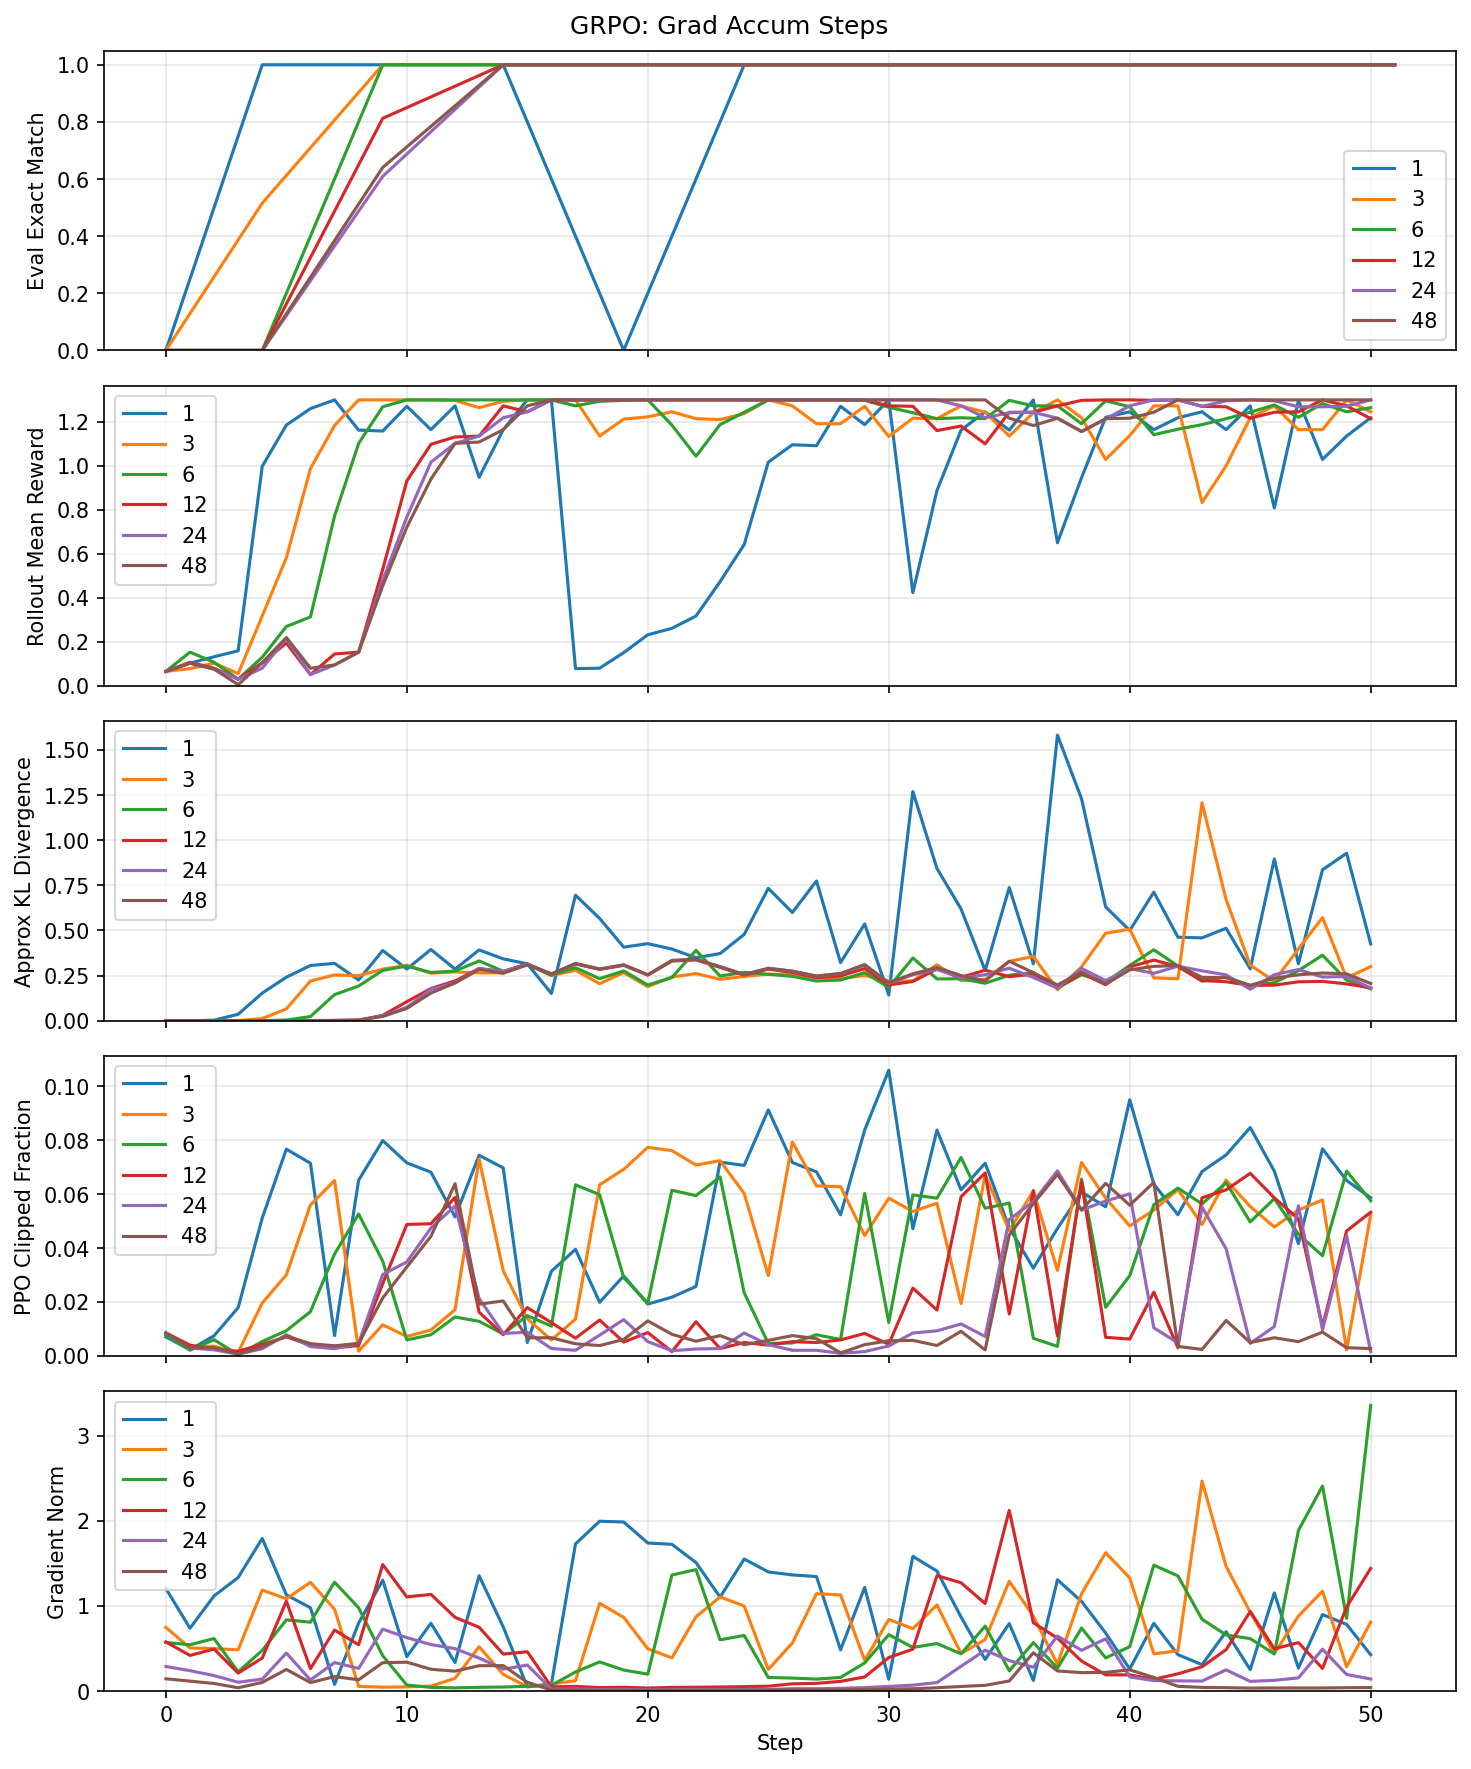
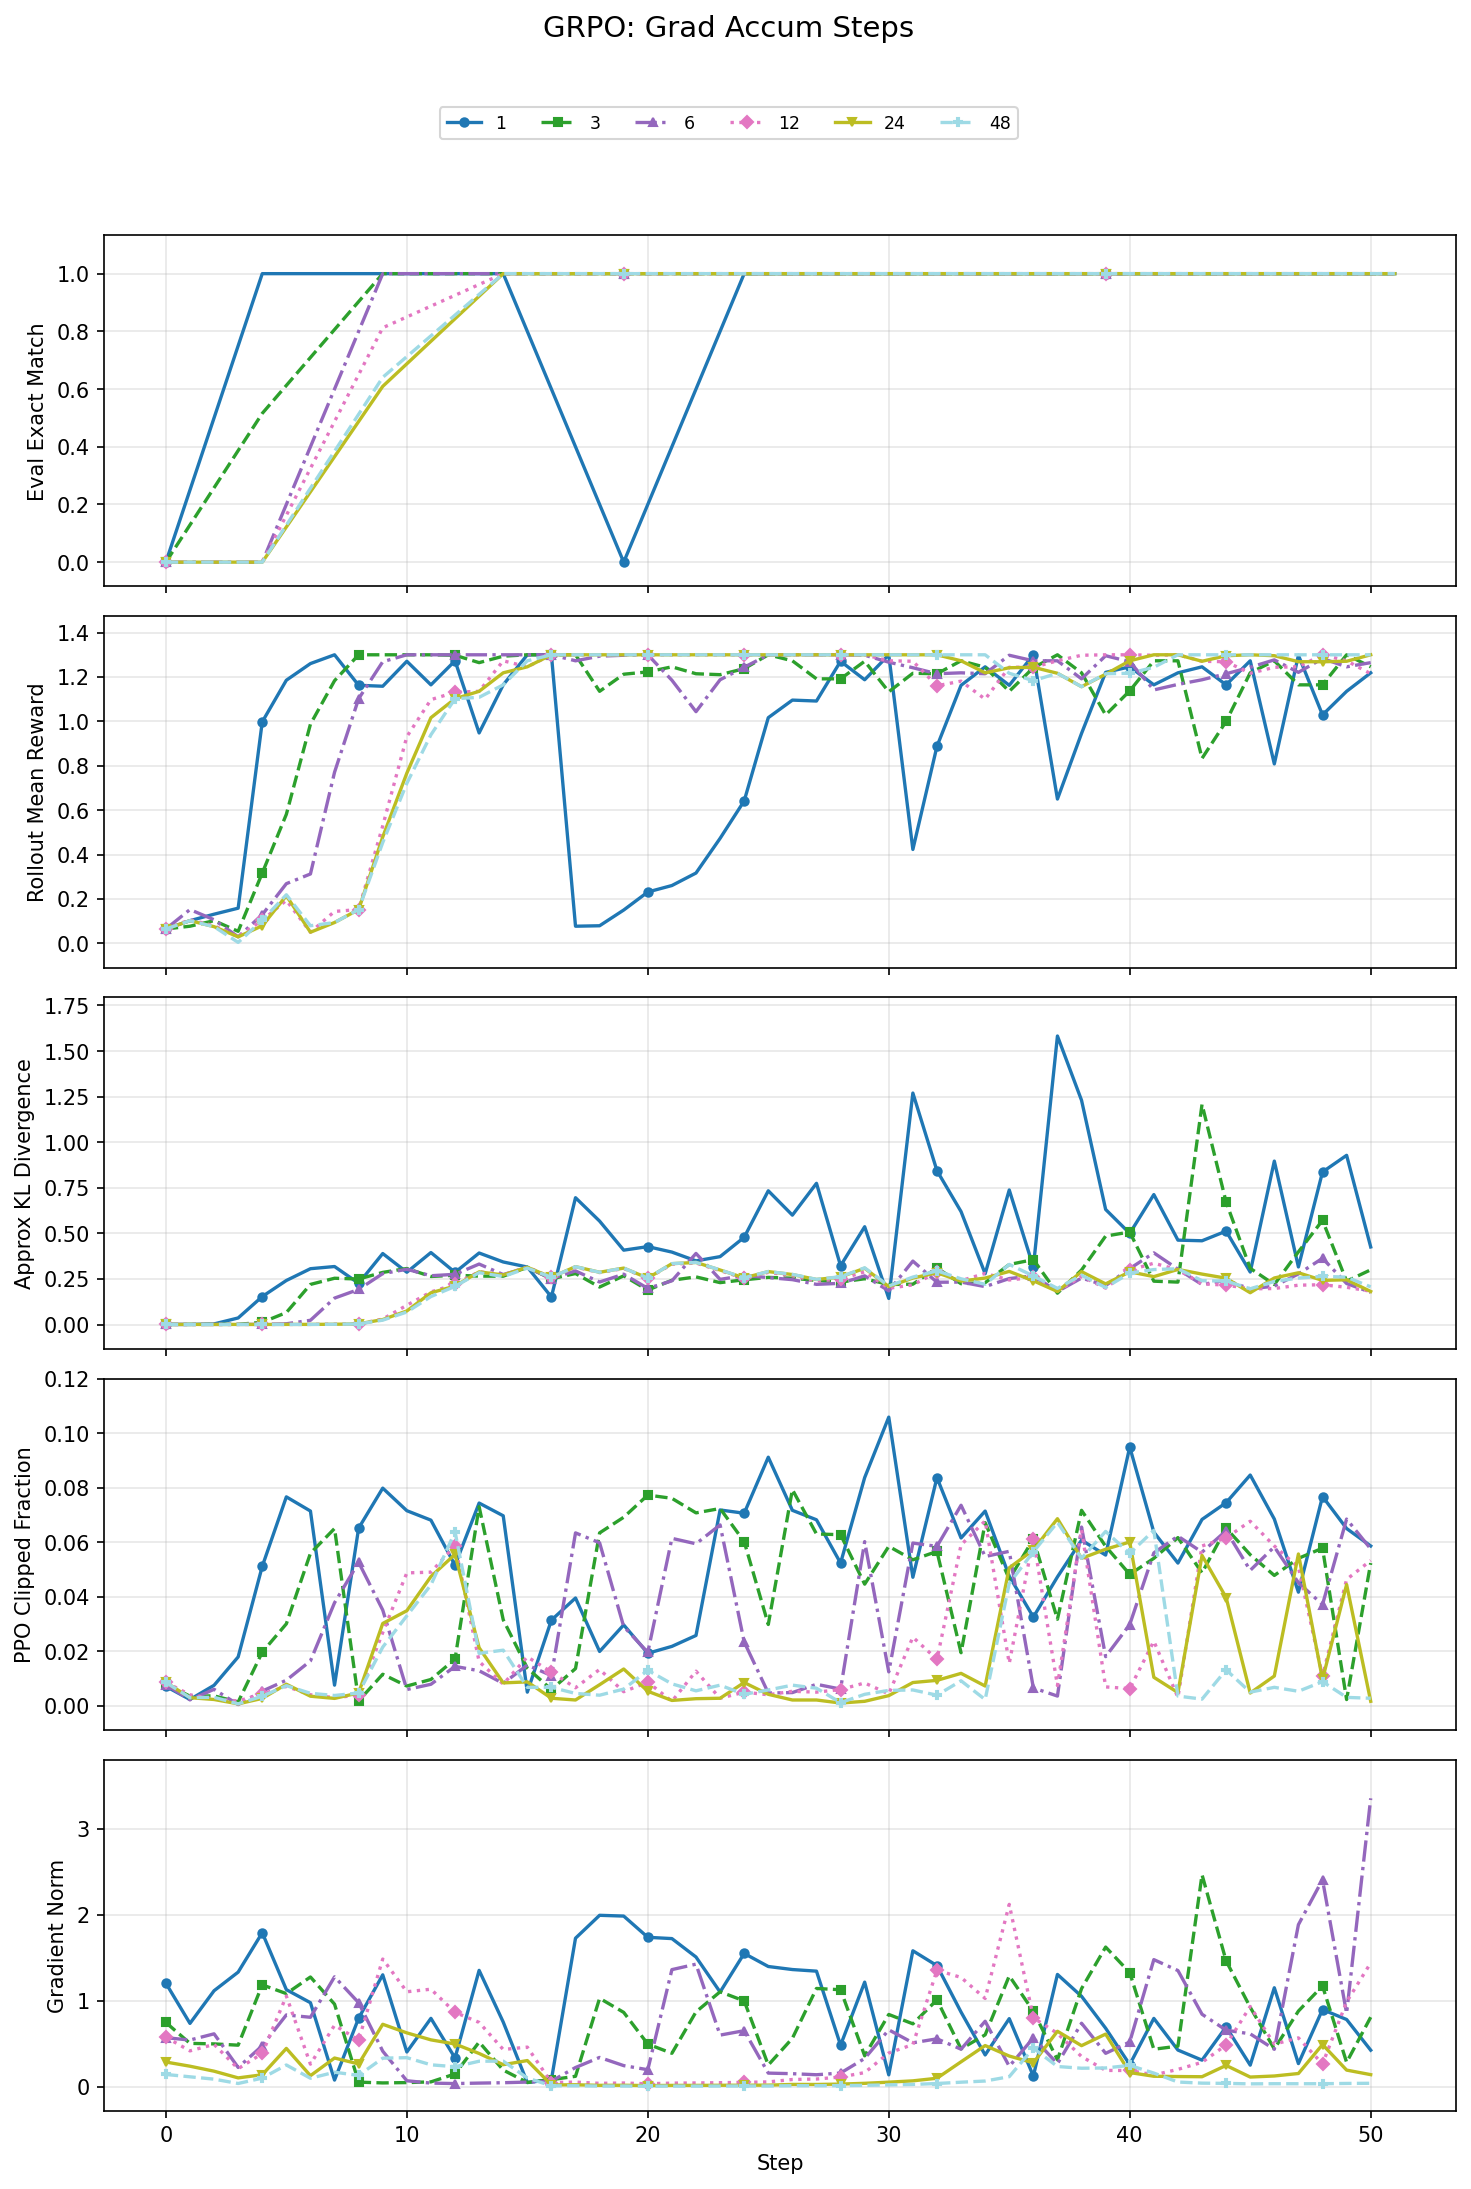
graphs

diff --git a/hw4/visuals/visualize_hyperparameters.py b/hw4/visuals/visualize_hyperparameters.py
@@ -6,6 +6,10 @@ import re
 from pathlib import Path
 
 import matplotlib.pyplot as plt
+import matplotlib.lines as mlines
+
+LINESTYLES = ["-", "--", "-.", ":"]
+MARKERS = ["o", "s", "^", "D", "v", "P", "X", "*", "h", "p", "d", "<", ">"]
 
 METRICS = [
     ("eval/format_copy_fraction_predicted_number_matches_target_integer_exactly", "Eval Exact Match"),
@@ -75,21 +79,51 @@ def main():
             by_param.setdefault(p, {})[data["value"]] = data
 
     for param, value_data in by_param.items():
-        fig, axes = plt.subplots(5, 1, figsize=(10, 12), sharex=True)
+        sorted_vals = sorted(value_data.items())
+        n_vals = len(sorted_vals)
+        cmap = plt.cm.get_cmap("tab20", max(n_vals, 2))
+
+        style_map = {}
+        for i, (val, _) in enumerate(sorted_vals):
+            style_map[val] = dict(
+                color=cmap(i),
+                linestyle=LINESTYLES[i % len(LINESTYLES)],
+                marker=MARKERS[i % len(MARKERS)],
+                markersize=4,
+                markevery=max(1, 5 - n_vals // 5),
+                linewidth=1.6,
+            )
+
+        fig, axes = plt.subplots(5, 1, figsize=(10, 14), sharex=True)
         for ax, (metric_key, label) in zip(axes, METRICS):
-            for i, (val, data) in enumerate(sorted(value_data.items())):
+            for val, data in sorted_vals:
                 x, y = get_xy(data, metric_key)
                 if x:
-                    ax.plot(x, y, label=val)
+                    ax.plot(x, y, **style_map[val])
             ax.set_ylabel(label)
-            ax.legend()
             ax.grid(alpha=0.3)
             ax.set_ylim(bottom=0)
+            ymin, ymax = ax.get_ylim()
+            margin = (ymax - ymin) * 0.08 or 0.05
+            ax.set_ylim(ymin - margin, ymax + margin)
+
+        handles = [
+            mlines.Line2D([], [], label=val, **style_map[val])
+            for val, _ in sorted_vals
+        ]
+        fig.legend(
+            handles=handles,
+            loc="upper center",
+            ncol=min(n_vals, 6),
+            fontsize="small",
+            bbox_to_anchor=(0.5, 1.0),
+            frameon=True,
+        )
         axes[-1].set_xlabel("Step")
-        plt.suptitle(f"GRPO: {param.replace('_', ' ').title()}")
-        plt.tight_layout()
-        plt.savefig(out_dir / f"grpo_{param}.png", dpi=150, bbox_inches="tight")
-        plt.close()
+        fig.suptitle(f"GRPO: {param.replace('_', ' ').title()}", y=1.04, fontsize=14)
+        fig.tight_layout(rect=[0, 0, 1, 0.97])
+        fig.savefig(out_dir / f"grpo_{param}.png", dpi=150, bbox_inches="tight")
+        plt.close(fig)
         print(f"Saved: grpo_{param}.png")
 
 
